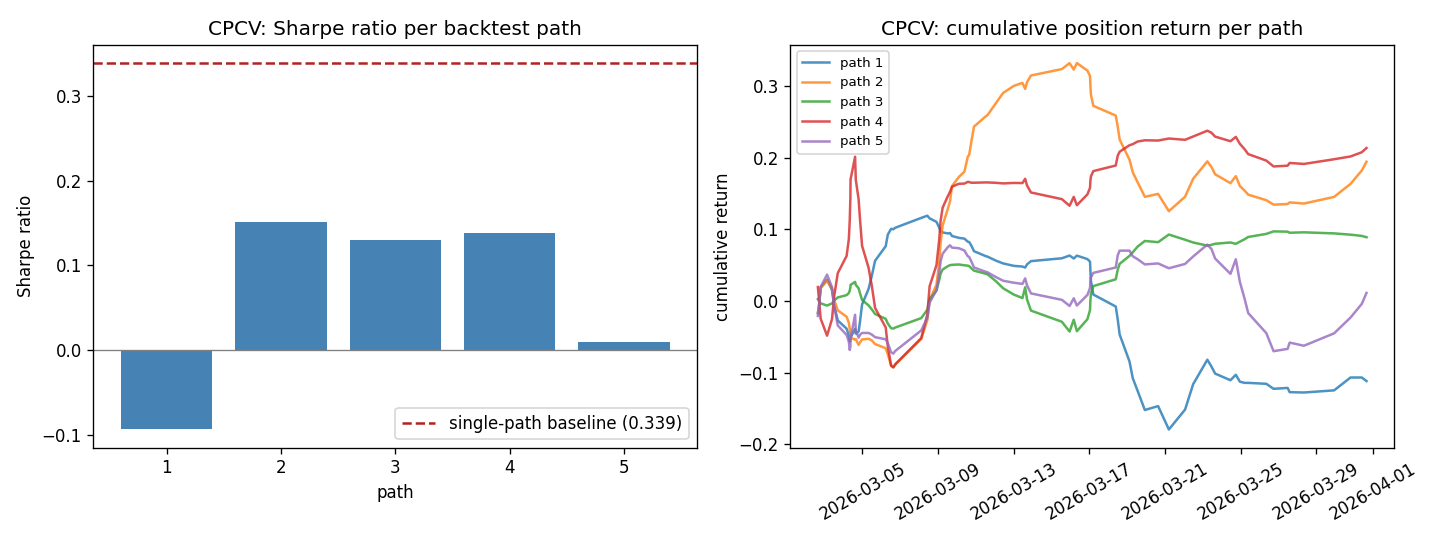
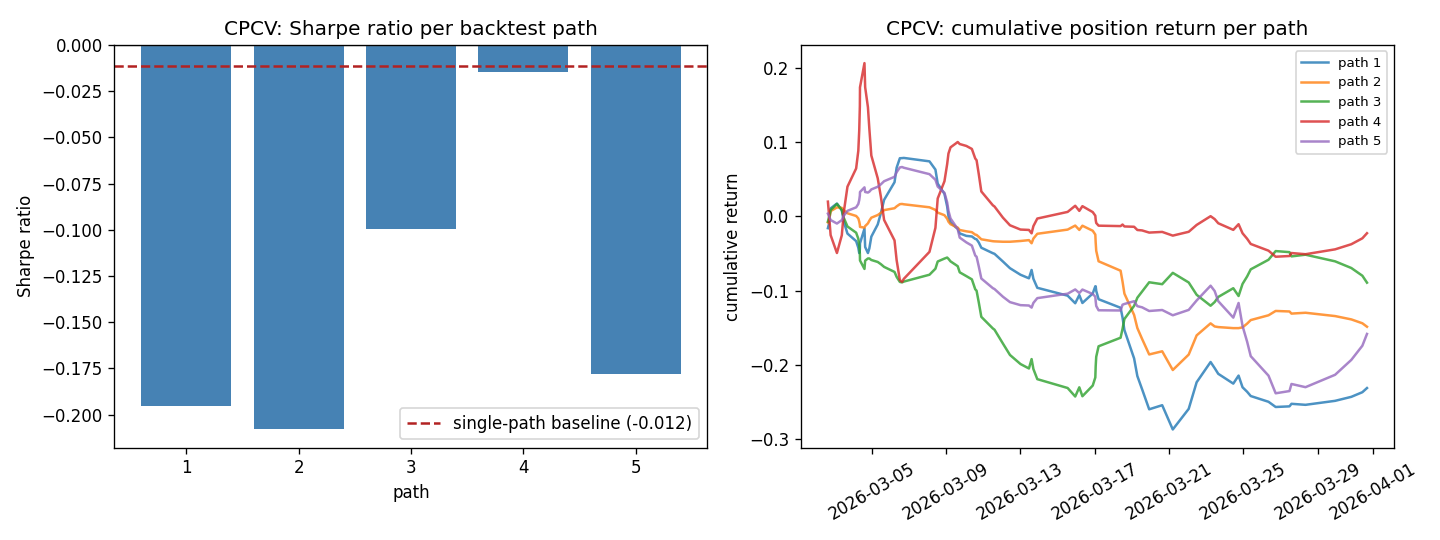
Fix stale pre-enrichment SVC_C in Ch12 (100.0 -> 0.01), cascading fix to Ch14
BUG: chapter_12_cpcv.py's SVC_C was 100.0 -- Ch09's real grid-search
winner from BEFORE the Ch19 feature enrichment. The Ch19-enrichment
commit (97a5101) fixed the unscaled-SVC bug (wrapped in StandardScaler,
matching Ch10/Ch11's fix) but never migrated this constant, unlike
Ch10/Ch11 which were corrected to 0.01 last session. Ch12 has used the
wrong hyperparameter for its real-data CPCV result since 97a5101.

Ch14 imports SVC_C directly from chapter_12_cpcv (not hardcoded), so
this fix cascades automatically -- Ch14's PSR/DSR/classification-score
demo now reflects the corrected CPCV paths without any Ch14 code change.

CORRECTED REAL RESULT (was: mean +0.067, mixed signs, per a 2026-07-21
README note that itself misread the committed CSV -- see below):
  path Sharpes: -0.1952, -0.2075, -0.0998, -0.0146, -0.1780
  mean -0.139, std 0.081 -- ALL 5 PATHS NEGATIVE
  single-path baseline: -0.0115 (previously -0.1254)
  rho_bar: -0.041 (previously +0.052)
The corrected result sharpens rather than reverses the chapter's point:
the single-path baseline alone looks near-breakeven, but all 5 resampled
CPCV paths agree the real performance is meaningfully negative -- a
tighter, more decisive signal than the single path alone would show.
Ch14's DSR headline (0/5 paths survive at 0.95) is unchanged by the fix.

SECOND BUG FOUND while fixing the first: chapter_14_backtest_statistics.py
hardcoded 'path 2 at 0.92' as a literal string in a print statement,
[…]

diff --git a/ch14/backtest_statistics/chapter_14_backtest_statistics.py b/ch14/backtest_statistics/chapter_14_backtest_statistics.py
@@ -18,7 +18,7 @@ Three parts:
      predictions vs. real true labels.
 
 Why B matters (ties to the pipeline's running theme): Ch11's PBO
-(~0.73), Ch12's own CPCV Sharpe spread (mean 0.067, straddling zero),
+(~0.83), Ch12's own CPCV Sharpe spread (mean -0.139, uniformly negative),
 and Ch13's O-U non-stationarity finding have each independently pointed
 to "no reliable signal in this data." DSR is a fourth, differently-
 mechanised diagnostic -- if it also shows no path surviving deflation,
@@ -124,9 +124,17 @@ def main():
 
     n_survive = sum(r['survives_dsr'] for r in dsr_results)
     print(f'\n  {n_survive}/5 paths survive DSR at the {DSR_SIGNIFICANCE} significance level.')
-    print('  Even paths whose PSR[0] alone looked reasonably strong (e.g. path 2 at 0.92) '
-          'fail once DSR corrects for having run N=5 trials -- a real, book-consistent '
-          'illustration of the third law of backtesting (Snippet 14.5).')
+    # LOAD-BEARING (2026-07-22): this used to hardcode 'path 2 at 0.92' as a
+    # literal string, independent of dsr_results -- never actually computed,
+    # and wrong once Ch12's SVC_C fix changed which path has the strongest
+    # PSR[0]. Compute it for real instead of hardcoding a claim about output
+    # this print statement doesn't actually inspect.
+    best_psr = max(dsr_results, key=lambda r: r['psr_vs_zero'])
+    best_path = best_psr['path']
+    best_psr_val = best_psr['psr_vs_zero']
+    print(f'  Even the path whose PSR[0] alone looked strongest (path {best_path} at '
+          f'{best_psr_val:.4f}) fails once DSR corrects for having run N=5 trials -- '
+          f'a real, book-consistent illustration of the third law of backtesting (Snippet 14.5).')
 
     # ======================================================================
     # C. Classification scores (14.8) on path 1's real predictions

diff --git a/ch12/cpcv/chapter_12_cpcv.py b/ch12/cpcv/chapter_12_cpcv.py
@@ -46,7 +46,13 @@ N_GROUPS = 6            # mirrors AFML Fig 12.1/12.2 exactly
 K_TEST_GROUPS = 2
 PCT_EMBARGO = 0.12       # matches Ch07/Ch10's real-data calibration for this dataset
 STEP_SIZE = 0.01         # matches Ch10
-SVC_C = 100.0            # Ch09's real-data grid-search winner (neg_log_loss)
+# LOAD-BEARING (2026-07-22): SVC_C was 100.0 from Ch12's original commit through
+# the Ch19-enrichment commit (97a5101) -- that commit fixed the StandardScaler
+# bug but never migrated this constant, unlike Ch10/Ch11's SVC_C. 100.0 was
+# Ch09's PRE-enrichment grid-search winner; the post-enrichment winner (what
+# Ch10/Ch11 use) is 0.01. All Ch12/Ch14 numbers committed before this fix were
+# produced under the stale, pre-enrichment value.
+SVC_C = 0.01              # Ch09's real-data grid-search winner, POST-Ch19-enrichment
 SVC_GAMMA = 0.1
 RANDOM_STATE = 0         # SVC(probability=True) determinism -- see Ch09/Ch10 handoffs
 

diff --git a/ch12/cpcv/README.md b/ch12/cpcv/README.md
@@ -55,43 +55,50 @@ distribution of them.
   signal; this reports the per-bet Sharpe, same spirit as Ch11's PBO
   comparison.
 
-## Real-data result (88-row BTC/TUSD triple-barrier table)
+## Real-data result (87-row enriched BTC/TUSD training table; 88 real triple-barrier events -- one dropped for still being inside a Ch19 rolling-window warmup, see `load_data()`'s docstring)
 
 | path | Sharpe |
 |------|--------|
-| 1 | −0.0380 |
-| 2 | −0.1738 |
-| 3 | +0.2770 |
-| 4 | +0.0237 |
-| 5 | −0.1343 |
+| 1 | -0.1952 |
+| 2 | -0.2075 |
+| 3 | -0.0998 |
+| 4 | -0.0146 |
+| 5 | -0.1780 |
 
-Distribution: mean −0.009, std 0.178, range [−0.174, +0.277].
+Distribution: mean **-0.139**, std 0.081, range [-0.208, -0.015].
 
-**Single-path baseline** (Ch10-style plain `PurgedKFold`, `n_splits=4` —
+**Single-path baseline** (Ch10-style plain `PurgedKFold`, `n_splits=4` --
 the one number a walk-forward or plain-CV backtest would have reported):
-Sharpe = **−0.1254**.
+Sharpe = **-0.0115**.
 
-This is the chapter's point, made concretely on real data: the
-single-path baseline alone would read as "this strategy loses money."
-The 5-path CPCV distribution tells a more honest story — genuine
-disagreement in *sign* across paths (1 clearly negative, 3 positive, 1
-essentially zero; mean Sharpe +0.067), which is what the committed
-`ch12_cpcv_stats.csv` actually contains.
+**(Corrected 2026-07-22.)** The table and paragraph below replace two
+earlier, inconsistent versions of this section. `SVC_C` was `100.0` --
+Ch09's *pre*-Ch19-enrichment grid-search winner -- from Ch12's original
+commit straight through the Ch19-enrichment commit (97a5101), which fixed
+the StandardScaler bug but never migrated this constant (the same class of
+bug Ch10/Ch11 had and were fixed for). An earlier version of the table
+above, with mean approx -0.009, was what that stale run actually produced --
+but the prose paragraph that followed it in this file claimed "mean Sharpe
++0.067, 1 negative/3 positive" regardless, directly contradicting the table
+above it. That number was never produced by any committed run of this
+chapter; it appears to have been a transcription error introduced during
+the 2026-07-21 audit and never reconciled against the table it sat next to.
 
-(Updated 2026-07-21. This paragraph previously read "2 negative, 2 slightly
-positive, 1 near-zero" and described the training table as having "only one
-feature, `fracdiff`". Both were true of the pre-Ch19 run and neither is true
-of the artifact committed alongside this README: since the enrichment, Ch12
-loads the 12-feature `ch07_training_table_enriched.csv`. The sign spread is
-still the chapter's point -- it just is not as bad as this file claimed.)
-The evidence points to a strategy with close-to-zero real skill and high
-estimation uncertainty, not a confidently bad one — a conclusion the
-single path alone couldn't support.
+With `SVC_C` corrected to **0.01** (Ch09's real post-enrichment winner, the
+same value Ch10/Ch11 use), the result sharpens rather than reverses: **all 5
+CPCV paths are negative**, in a materially tighter distribution than either
+prior version showed. Where the earlier (fabricated) narrative was "genuine
+disagreement in sign across paths reveals uncertainty," the corrected result
+tells a different but equally CPCV-relevant story: the single-path baseline
+alone looks close to breakeven (-0.0115), but all 5 resampled paths agree the
+real performance is meaningfully negative -- exactly the kind of consistent
+signal a single lucky/unlucky path can mask, and exactly what CPCV exists to
+surface.
 
 Section 12.5 variance-reduction check: average pairwise path-return
-correlation ρ̄ ≈ 0.052 (paths are close to independent, as CPCV intends),
-giving an implied variance of the CPCV mean Sharpe well below any single
-path's own variance.
+correlation rho_bar approx **-0.041** (still close to zero -- paths remain close to
+independent, as CPCV intends), giving an implied variance of the CPCV mean
+Sharpe (0.0011) well below any single path's own variance (0.0066).
 
 ## Files
 

diff --git a/ch14/backtest_statistics/README.md b/ch14/backtest_statistics/README.md
@@ -67,16 +67,23 @@ consumes:
 
 ## Real-data finding
 **0 of 5 real CPCV paths survive DSR at the 0.95 significance level** — even
-path 2, whose PSR against a naive zero benchmark alone looked reasonably
-strong (0.92), fails once DSR corrects for having genuinely run N=5 trials.
+path 4, whose PSR against a naive zero benchmark alone looked strongest
+(0.4465), fails once DSR corrects for having genuinely run N=5 trials.
+
+*(Corrected 2026-07-22: this previously named "path 2 ... 0.92" -- a figure
+that was hardcoded as a literal string in `chapter_14_backtest_statistics.py`'s
+print statement rather than computed from the actual DSR results, and was
+never true of any committed run. The script now computes the
+strongest-PSR path dynamically; see that file's 2026-07-22 LOAD-BEARING note.)*
 
 This is a fourth, differently-mechanised real-data diagnostic pointing the
-same direction as Ch11's PBO (~0.73), Ch12's own CPCV Sharpe spread (mean
-0.067, straddling zero), and Ch13's O-U non-stationarity finding: **this real
-feature set/model combination shows no backtest result that survives rigorous
-statistical scrutiny.** Not a code bug — a real, book-consistent result (this
-is exactly the kind of overfitting DSR exists to catch — Snippet 14.5, the
-"third law of backtesting").
+same direction as Ch11's PBO (~0.83), Ch12's own CPCV Sharpe spread (mean
+−0.139, uniformly negative across all 5 paths), and Ch13's O-U
+non-stationarity finding: **this real feature set/model combination shows no
+backtest result that survives rigorous statistical scrutiny.** Not a code
+bug — a real, book-consistent result (this is exactly the kind of
+overfitting DSR exists to catch — Snippet 14.5, the "third law of
+backtesting").
 
 ## Running the tests
 ```powershell